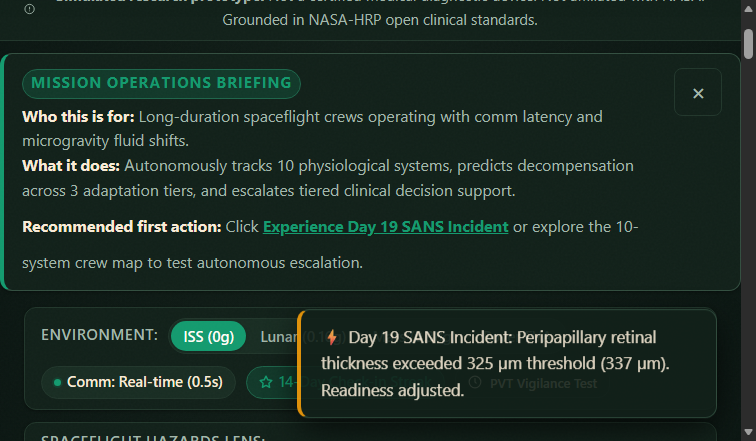
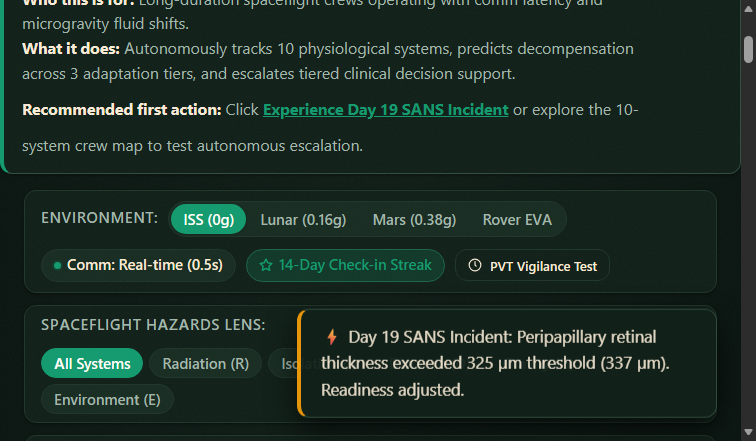
fix(layout): balance overview columns by placing Today's Check-in in left column, tighten body map viewBox, remove artificial card stretching, and eliminate all remaining gaps

diff --git a/index.html b/index.html
@@ -26,7 +26,7 @@
   <meta name="twitter:description" content="Offline-first spaceflight crew physiological monitoring and clinical telemetry logging PWA for NASA Space Apps 2026.">
   <meta name="twitter:image" content="https://rohini-s-286.github.io/orbital-field-medical-journal/og-image.png">
 
-  <link rel="stylesheet" href="./styles.css?v=13">
+  <link rel="stylesheet" href="./styles.css?v=14">
 
   <!-- Auto-clear obsolete SW caches on load -->
   <script>
@@ -439,7 +439,7 @@
             <div id="body-map-active-label" class="body-map-hover-tag" aria-live="polite">
               Ocular &amp; SANS Monitoring • In range (●)
             </div>
-            <svg class="body-map-svg" viewBox="0 14 320 508" preserveAspectRatio="xMidYMid meet" fill="none" xmlns="http://www.w3.org/2000/svg" role="img" aria-label="Interactive anatomical front-view outline of astronaut physiology">
+            <svg class="body-map-svg" viewBox="50 14 220 508" preserveAspectRatio="xMidYMid meet" fill="none" xmlns="http://www.w3.org/2000/svg" role="img" aria-label="Interactive anatomical front-view outline of astronaut physiology">
               <defs>
                 <!-- Single Soft Radial Glow Filter per system -->
                 <filter id="system-soft-glow" x="-50%" y="-50%" width="200%" height="200%">
@@ -650,6 +650,102 @@
             Begin Measurement
           </button>
         </section>
+
+        <!-- 3. Daily Countermeasure Schedule (Restores Balanced 3-Card Column, Zero Dead Space) -->
+<section class="journal-card" id="card-checklist" aria-labelledby="checkin-heading" >
+        <div class="card-header">
+          <div class="card-title-group">
+            <span class="card-meta">Daily Countermeasure Schedule</span>
+            <h2 id="checkin-heading">Today's Check-in</h2>
+          </div>
+          <span class="text-faint num-tabular" id="checkin-progress-counter" style="font-size: 13.5px;">2 / 4 Complete</span>
+        </div>
+
+        <!-- CHECK-IN PROTOCOL CHECKLIST -->
+        <ul class="checkin-list" role="list">
+          <!-- 1. Completed -->
+          <li class="checkin-item completed" role="listitem">
+            <div class="checkin-content">
+              <div class="checkin-icon-box" aria-label="Completed">
+                <svg width="20" height="20" viewBox="0 0 24 24" fill="none" stroke="currentColor" stroke-width="2.5" stroke-linecap="round" stroke-linejoin="round">
+                  <polyline points="20 6 9 17 4 12"/>
+                </svg>
+              </div>
+              <div class="checkin-titles">
+                <span class="checkin-name">Sleep Architecture &amp; Core Temp</span>
+                <span class="checkin-meta">Logged 06:40 UTC • 7h 18m nominal </span>
+              </div>
+            </div>
+            <span class="status-badge status--in-range" style="padding: 4px 10px; font-size: 13px;">
+              In range
+            </span>
+          </li>
+
+          <!-- 2. Completed -->
+          <li class="checkin-item completed" role="listitem">
+            <div class="checkin-content">
+              <div class="checkin-icon-box" aria-label="Completed">
+                <svg width="20" height="20" viewBox="0 0 24 24" fill="none" stroke="currentColor" stroke-width="2.5" stroke-linecap="round" stroke-linejoin="round">
+                  <polyline points="20 6 9 17 4 12"/>
+                </svg>
+              </div>
+              <div class="checkin-titles">
+                <span class="checkin-name">Cabin Radiation Dosimetry</span>
+                <span class="checkin-meta">Logged 08:15 UTC • 285 µGy/d </span>
+              </div>
+            </div>
+            <span class="status-badge status--in-range" style="padding: 4px 10px; font-size: 13px;">
+              In range
+            </span>
+          </li>
+
+          <!-- 3. Pending (Next Due) -->
+          <li class="checkin-item pending" id="checkin-item-cardio" role="listitem">
+            <div class="checkin-content">
+              <div class="checkin-icon-box" aria-label="Pending">
+                <svg width="20" height="20" viewBox="0 0 24 24" fill="none" stroke="currentColor" stroke-width="2" stroke-linecap="round" stroke-linejoin="round">
+                  <circle cx="12" cy="12" r="10"/>
+                  <polyline points="12 6 12 12 16 14"/>
+                </svg>
+              </div>
+              <div class="checkin-titles">
+                <span class="checkin-name">Cardiovascular Vitals &amp; SpO2</span>
+                <span class="checkin-meta" id="checkin-cardio-meta">Due in 38m • Cuff, pulse oximeter &amp; HR</span>
+              </div>
+            </div>
+            <span class="status-badge status--attention" id="checkin-cardio-badge" style="padding: 4px 10px; font-size: 13px;">
+              Due Next
+            </span>
+          </li>
+
+          <!-- 4. Evening Workout -->
+          <li class="checkin-item" role="listitem">
+            <div class="checkin-content">
+              <div class="checkin-icon-box" style="background: var(--color-surface); color: var(--color-ink-muted);" aria-label="Scheduled">
+                <svg width="20" height="20" viewBox="0 0 24 24" fill="none" stroke="currentColor" stroke-width="2" stroke-linecap="round" stroke-linejoin="round">
+                  <path d="M18 20V10M12 20V4M6 20v-6"/>
+                </svg>
+              </div>
+              <div class="checkin-titles">
+                <span class="checkin-name">ARED Resistive Countermeasure</span>
+                <span class="checkin-meta">Scheduled 16:30 UTC • Daily assigned session</span>
+              </div>
+            </div>
+            <span class="text-faint num-tabular" style="font-size: 13px;">16:30</span>
+          </li>
+        </ul>
+
+        <!-- Surgeon Quick Call Protocol trigger -->
+        <div style="margin-top: 24px; padding-top: 16px; border-top: 1px solid var(--color-border); display: flex; justify-content: space-between; align-items: center; gap: 8px;">
+          <div>
+            <div style="font-size: 13.5px; font-weight: 600; color: var(--color-ink);">Demo: preview all four status levels</div>
+            <div class="text-faint" style="font-size: 13px;">Cycles 4 non-color redundant levels</div>
+          </div>
+          <button class="btn-secondary" id="trigger-emergency-drill-btn" style="min-height: 48px; padding: 8px 16px; font-size: 13.5px;" title="Test and verify all 4 status states">
+            Status Drill
+          </button>
+        </div>
+      </section>
       </div>
 
       <!-- RIGHT COLUMN -->
@@ -879,98 +975,42 @@
   <!-- TAB VIEW 3: DAILY COUNTERMEASURES -->
   <div id="view-countermeasures" class="tab-view" role="tabpanel" aria-labelledby="tab-btn-countermeasures">
     <div class="dashboard-container" id="countermeasures-workspace-grid">
-      <section class="journal-card" id="card-checklist" aria-labelledby="checkin-heading" style="max-width: 900px; margin: 0 auto;">
+      <section class="journal-card" id="card-countermeasures-protocol-view" aria-labelledby="cm-protocol-heading" style="max-width: 900px; margin: 0 auto; width: 100%;">
         <div class="card-header">
           <div class="card-title-group">
-            <span class="card-meta">Daily Countermeasure Schedule</span>
-            <h2 id="checkin-heading">Today's Check-in</h2>
+            <span class="card-meta">In-Flight Countermeasure Protocols</span>
+            <h2 id="cm-protocol-heading">Daily Countermeasure Schedule &amp; Execution</h2>
           </div>
-          <span class="text-faint num-tabular" id="checkin-progress-counter" style="font-size: 13.5px;">2 / 4 Complete</span>
+          <span class="status-badge status--in-range">
+            <svg viewBox="0 0 24 24" width="12" height="12" fill="none" stroke="currentColor" stroke-width="2.5"><polyline points="20 6 9 17 4 12"/></svg>
+            Active In-Flight Schedule
+          </span>
         </div>
 
-        <!-- CHECK-IN PROTOCOL CHECKLIST -->
-        <ul class="checkin-list" role="list">
-          <!-- 1. Completed -->
-          <li class="checkin-item completed" role="listitem">
-            <div class="checkin-content">
-              <div class="checkin-icon-box" aria-label="Completed">
-                <svg width="20" height="20" viewBox="0 0 24 24" fill="none" stroke="currentColor" stroke-width="2.5" stroke-linecap="round" stroke-linejoin="round">
-                  <polyline points="20 6 9 17 4 12"/>
-                </svg>
-              </div>
-              <div class="checkin-titles">
-                <span class="checkin-name">Sleep Architecture &amp; Core Temp</span>
-                <span class="checkin-meta">Logged 06:40 UTC • 7h 18m nominal </span>
-              </div>
-            </div>
-            <span class="status-badge status--in-range" style="padding: 4px 10px; font-size: 13px;">
-              In range
-            </span>
-          </li>
-
-          <!-- 2. Completed -->
-          <li class="checkin-item completed" role="listitem">
-            <div class="checkin-content">
-              <div class="checkin-icon-box" aria-label="Completed">
-                <svg width="20" height="20" viewBox="0 0 24 24" fill="none" stroke="currentColor" stroke-width="2.5" stroke-linecap="round" stroke-linejoin="round">
-                  <polyline points="20 6 9 17 4 12"/>
-                </svg>
-              </div>
-              <div class="checkin-titles">
-                <span class="checkin-name">Cabin Radiation Dosimetry</span>
-                <span class="checkin-meta">Logged 08:15 UTC • 285 µGy/d </span>
-              </div>
-            </div>
-            <span class="status-badge status--in-range" style="padding: 4px 10px; font-size: 13px;">
-              In range
-            </span>
-          </li>
-
-          <!-- 3. Pending (Next Due) -->
-          <li class="checkin-item pending" id="checkin-item-cardio" role="listitem">
-            <div class="checkin-content">
-              <div class="checkin-icon-box" aria-label="Pending">
-                <svg width="20" height="20" viewBox="0 0 24 24" fill="none" stroke="currentColor" stroke-width="2" stroke-linecap="round" stroke-linejoin="round">
-                  <circle cx="12" cy="12" r="10"/>
-                  <polyline points="12 6 12 12 16 14"/>
-                </svg>
-              </div>
-              <div class="checkin-titles">
-                <span class="checkin-name">Cardiovascular Vitals &amp; SpO2</span>
-                <span class="checkin-meta" id="checkin-cardio-meta">Due in 38m • Cuff, pulse oximeter &amp; HR</span>
-              </div>
-            </div>
-            <span class="status-badge status--attention" id="checkin-cardio-badge" style="padding: 4px 10px; font-size: 13px;">
-              Due Next
-            </span>
-          </li>
-
-          <!-- 4. Evening Workout -->
-          <li class="checkin-item" role="listitem">
-            <div class="checkin-content">
-              <div class="checkin-icon-box" style="background: var(--color-surface); color: var(--color-ink-muted);" aria-label="Scheduled">
-                <svg width="20" height="20" viewBox="0 0 24 24" fill="none" stroke="currentColor" stroke-width="2" stroke-linecap="round" stroke-linejoin="round">
-                  <path d="M18 20V10M12 20V4M6 20v-6"/>
-                </svg>
-              </div>
-              <div class="checkin-titles">
-                <span class="checkin-name">ARED Resistive Countermeasure</span>
-                <span class="checkin-meta">Scheduled 16:30 UTC • Daily assigned session</span>
-              </div>
-            </div>
-            <span class="text-faint num-tabular" style="font-size: 13px;">16:30</span>
-          </li>
-        </ul>
-
-        <!-- Surgeon Quick Call Protocol trigger -->
-        <div style="margin-top: 24px; padding-top: 16px; border-top: 1px solid var(--color-border); display: flex; justify-content: space-between; align-items: center; gap: 8px;">
-          <div>
-            <div style="font-size: 13.5px; font-weight: 600; color: var(--color-ink);">Demo: preview all four status levels</div>
-            <div class="text-faint" style="font-size: 13px;">Cycles 4 non-color redundant levels</div>
+        <div style="display: grid; grid-template-columns: repeat(auto-fit, minmax(260px, 1fr)); gap: 16px; margin-bottom: 20px;">
+          <div style="background: var(--color-surface); border: 1px solid var(--color-border); border-radius: var(--radius-md); padding: 16px;">
+            <div style="font-weight: 700; color: var(--color-ink); margin-bottom: 4px; font-size: 1.05rem;">ARED Resistive Exercise</div>
+            <div class="text-muted" style="font-size: 13.5px; line-height: 1.45;">Complete your scheduled resistive and cycle exercise sessions to mitigate axial deconditioning and bone mineral loss.</div>
+            <div class="simulated-tag" style="margin-top: 10px; display: inline-block;">NASA-STD-3001 • Countermeasure Compliance: 100%</div>
           </div>
-          <button class="btn-secondary" id="trigger-emergency-drill-btn" style="min-height: 48px; padding: 8px 16px; font-size: 13.5px;" title="Test and verify all 4 status states">
-            Status Drill
-          </button>
+
+          <div style="background: var(--color-surface); border: 1px solid var(--color-border); border-radius: var(--radius-md); padding: 16px;">
+            <div style="font-weight: 700; color: var(--color-ink); margin-bottom: 4px; font-size: 1.05rem;">SANS Fluid Redistribution Mitigation</div>
+            <div class="text-muted" style="font-size: 13.5px; line-height: 1.45;">Lower-body negative pressure (LBNP) session scheduled under autonomous self-care protocol to draw fluid caudally.</div>
+            <div class="simulated-tag" style="margin-top: 10px; display: inline-block;">HRP Evidence Report (SANS) • Autonomous Self-Care</div>
+          </div>
+
+          <div style="background: var(--color-surface); border: 1px solid var(--color-border); border-radius: var(--radius-md); padding: 16px;">
+            <div style="font-weight: 700; color: var(--color-ink); margin-bottom: 4px; font-size: 1.05rem;">Circadian Lighting &amp; Sleep Hygiene</div>
+            <div class="text-muted" style="font-size: 13.5px; line-height: 1.45;">Maintain circadian cabin illumination profile (480nm blue-enriched morning, amber evening). Rest duration: 7h 18m.</div>
+            <div class="simulated-tag" style="margin-top: 10px; display: inline-block;">NASA-STD-3001 Vol 2 • Sleep Architecture Nominal</div>
+          </div>
+
+          <div style="background: var(--color-surface); border: 1px solid var(--color-border); border-radius: var(--radius-md); padding: 16px;">
+            <div style="font-weight: 700; color: var(--color-ink); margin-bottom: 4px; font-size: 1.05rem;">Mission Nutrition &amp; Hydration</div>
+            <div class="text-muted" style="font-size: 13.5px; line-height: 1.45;">Stay hydrated as directed by your mission nutrition plan. Low-sodium intake maintained to manage intracranial pressure.</div>
+            <div class="simulated-tag" style="margin-top: 10px; display: inline-block;">JSC 65806 • Electrolyte-Balanced Hydration</div>
+          </div>
         </div>
       </section>
     </div>
@@ -1628,8 +1668,8 @@
   <div id="toast-container" class="toast-container" aria-live="polite" aria-atomic="true"></div>
 
   <!-- Clinical Knowledge Base Data Script -->
-  <script src="./clinical-ranges.js?v=13"></script>
+  <script src="./clinical-ranges.js?v=14"></script>
   <!-- Application Core Script -->
-  <script src="./app.js?v=13"></script>
+  <script src="./app.js?v=14"></script>
 </body>
 </html>

diff --git a/styles.css b/styles.css
@@ -1254,8 +1254,8 @@ input:focus-visible,
 .body-map-wrapper {
   position: relative;
   width: 100%;
-  max-width: 320px;
-  margin: 6px auto 10px;
+  max-width: 260px;
+  margin: 4px auto 8px;
   display: flex;
   flex-direction: column;
   align-items: center;
@@ -1278,9 +1278,8 @@ input:focus-visible,
 
 .body-map-svg {
   width: 100%;
-  max-width: 310px;
-  min-height: 460px;
-  height: auto;
+  max-width: 250px;
+  height: 480px;
   display: block;
   margin: 0 auto;
 }
@@ -3178,7 +3177,7 @@ input:focus-visible,
 .journal-card {
   display: flex;
   flex-direction: column;
-  height: 100%;
+  height: auto;
 }
 
 .journal-card .card-body-flexible {
@@ -3195,7 +3194,7 @@ input:focus-visible,
 /* ================= OVERVIEW TAB BALANCED TWO-COLUMN LAYOUT ================= */
 .overview-grid-two-col {
   display: grid;
-  grid-template-columns: minmax(360px, 1fr) minmax(360px, 1.05fr);
+  grid-template-columns: 1fr 1fr;
   gap: 24px;
   align-items: start;
   margin-bottom: 24px;

diff --git a/app.js b/app.js
@@ -2368,7 +2368,7 @@ document.addEventListener('DOMContentLoaded', () => {
       storage.setItem('astro_clinical_log', JSON.stringify(filtered));
       renderClinicalLogTable();
       showToast('Field note acknowledged & logged to Crew Clinical Journal.', 'success');
-      const journalCard = document.getElementById('card-clinical-journal');
+      const journalCard = document.getElementById('card-clinical-journal') || document.getElementById('card-clinical-log');
       if (journalCard) {
         journalCard.scrollIntoView({ behavior: 'smooth', block: 'nearest' });
       }

diff --git a/sw.js b/sw.js
@@ -1,6 +1,6 @@
 // Orbital Field Medical Journal - Offline-First Service Worker
 // Versioned cache name
-const CACHE_NAME = 'ofmj-v13';
+const CACHE_NAME = 'ofmj-v14';
 
 const STATIC_ASSETS = [
   './',
